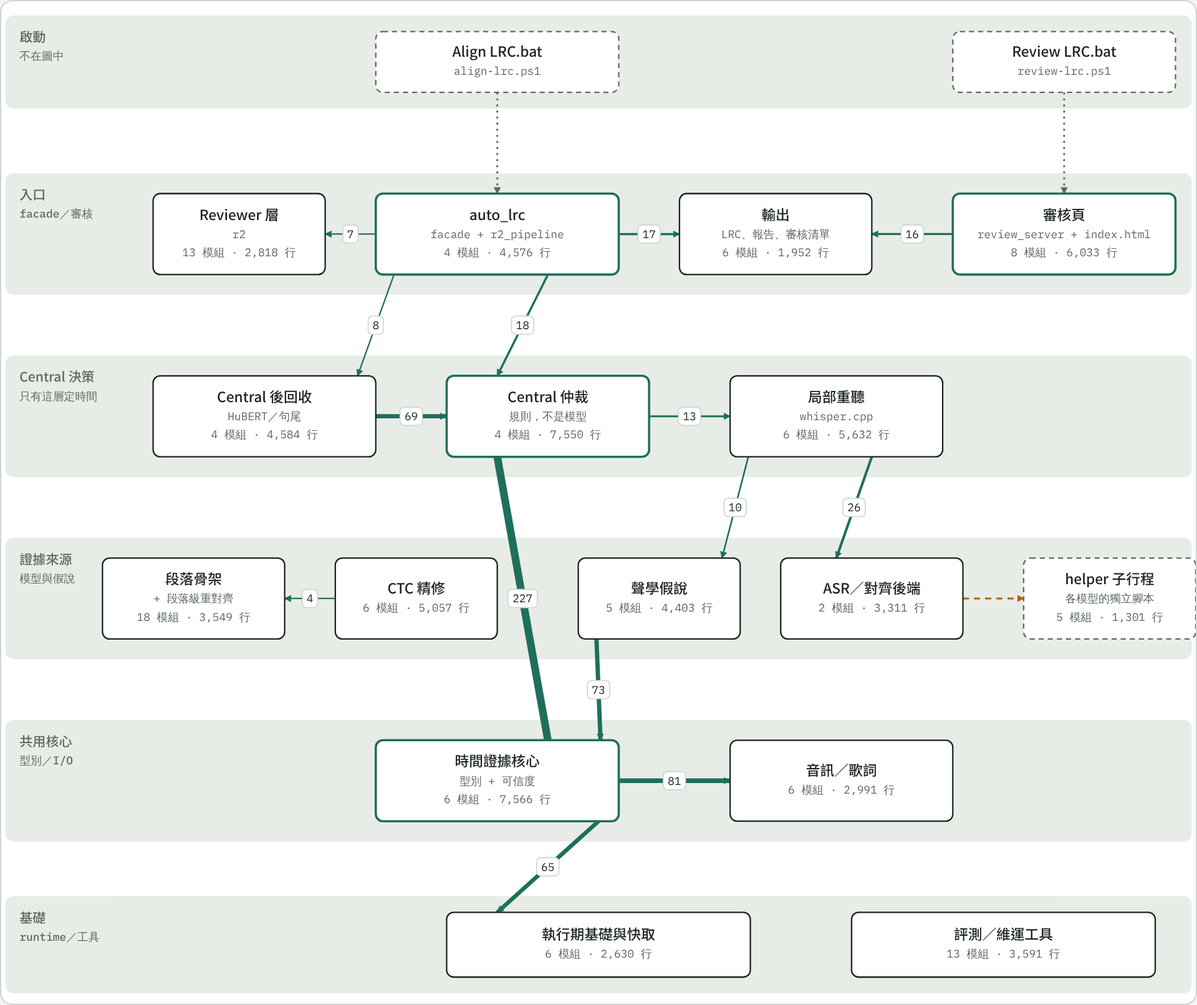
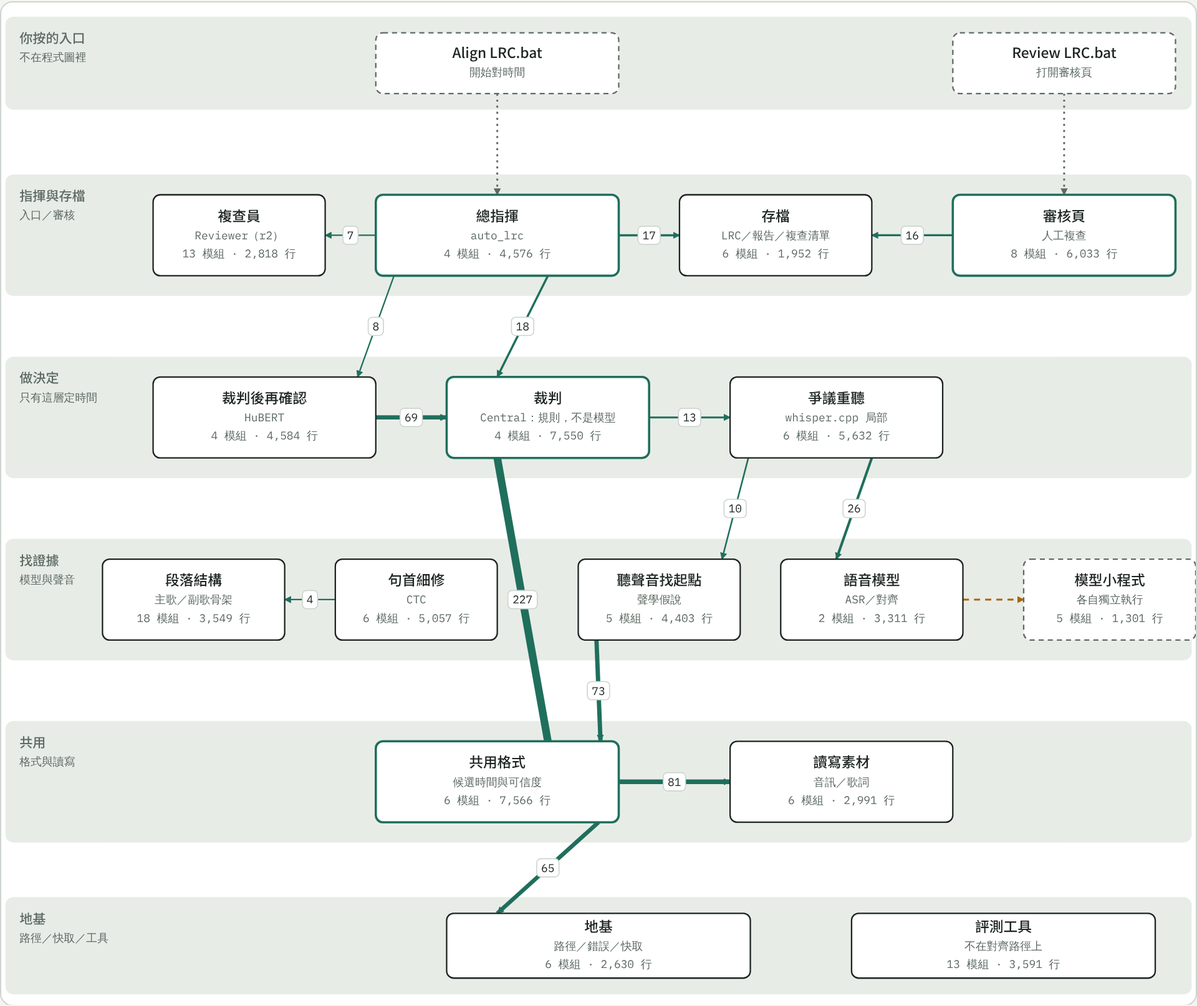
docs: architecture map in plain language for first-time readers

diff --git a/docs/architecture/index.html b/docs/architecture/index.html
@@ -90,22 +90,43 @@ ul.blind { margin: 0; padding-left: 20px; display: grid; gap: 6px; max-width: 80
 .tag.miss { border-color: var(--http); color: var(--http); }
 .paper { background: var(--paper); border: 1px solid var(--line); border-radius: 8px; overflow: auto; max-height: 80vh; margin-top: 12px; }
 .note { color: var(--muted); margin: 8px 0 0; max-width: 75ch; }
+.how { display: grid; gap: 4px; }
+.how h2 { margin: 0 0 6px; }
+ol.how4 { margin: 0; padding-left: 24px; display: grid; gap: 6px; max-width: 75ch; }
+aside .plain { font-size: 16px; line-height: 1.7; }
+aside details.tech { border-top: 1px solid var(--line); padding-top: 8px; }
+aside details.tech summary { color: var(--muted); font-size: 13px; }
+aside details.tech dl { margin-top: 8px; }
+.dev summary h2 { font-size: 18px; color: var(--muted); }
+.devbody { display: grid; gap: 24px; margin-top: 14px; }
+.devsec h3 { font-size: 16px; margin: 0 0 10px; }
 @media (prefers-reduced-motion: reduce) { * { transition: none !important; } }
 </style>
 
 <div class="wrap">
   <header>
     <h1>LRC 1.9 架構圖</h1>
-    <p>從 graphify 程式碼圖整理出的模組層級架構。點任一方塊看它的職責、檔案、核心函式與上下游；按「一首歌的主路徑」看一首歌怎麼從 FLAC 走到 LRC。</p>
-    <div class="meta">graphify 0.9.102 · 正式版 main = dev = 98f23693（2026-11-17）· 6076 節點 / 18095 邊 · 正式模組 112 個、67,544 行 · 線上數字＝跨層 calls+imports+references 邊數</div>
+    <p>你給它一首歌的音檔和歌詞（只有文字，沒有時間），它算出每一句從第幾秒開始唱，存成 LRC 檔。音樂播放器讀到 LRC，就能跟著歌聲一句一句亮起歌詞。</p>
   </header>
+
+  <section class="how">
+    <h2>它怎麼做到的</h2>
+    <ol class="how4">
+      <li><b>先把伴奏拿掉。</b>只留下歌聲，模型比較好聽清楚。</li>
+      <li><b>讓幾個語音模型各自找每一句的開頭。</b>它們已經知道歌詞，只要找「這幾個字在哪裡」。</li>
+      <li><b>由裁判挑時間。</b>模型意見一致就採用；不一致時，剪那一小段重聽，或找更多模型投票。</li>
+      <li><b>沒把握就說出來。</b>仍然不確定的句子會被標出來，人只要在審核頁聽這幾句，不用整首重聽。</li>
+    </ol>
+    <p class="note">在 37 首人工逐句校對過的歌上，87% 的句子誤差在 0.2 秒內，大約是一個音節的長度。</p>
+    <p class="note">下面這張圖是程式怎麼分工的。點任一方塊，先看到它用白話在做什麼；按「一首歌的主路徑」看一首歌依序經過哪些方塊。</p>
+  </section>
 
   <div class="controls">
     <button id="btnPath" type="button" aria-pressed="false">一首歌的主路徑</button>
     <button id="btnReset" type="button">全部顯示</button>
     <div class="legend">
-      <span><i class="sw"></i>程式內引用（粗細＝邊數）</span>
-      <span><i class="sw http"></i>子行程（圖中無邊，依原始碼）</span>
+      <span><i class="sw"></i>互相呼叫（越粗越多）</span>
+      <span><i class="sw http"></i>另開程式執行</span>
       <span><i class="sw path"></i>主路徑</span>
     </div>
   </div>
@@ -115,22 +136,38 @@ ul.blind { margin: 0; padding-left: 20px; display: grid; gap: 6px; max-width: 80
     <aside id="panel" aria-live="polite"></aside>
   </div>
 
-  <section>
-    <h2>近期功能落點</h2>
+  <section class="dev">
+    <details>
+      <summary><h2>給開發者：近期改動、核心函式、完整模組圖</h2></summary>
+      <div class="devbody">
+  <div class="devsec">
+    <h3>這張圖看不到的東西</h3>
+    <ul class="blind">
+      <li>分層是依模組名稱與拆檔報告分的，不是 graphify 的自動分群（它分出 230 個函式層級的群）。邊數全部來自 graphify。</li>
+      <li>主圖只畫主幹（17 條線）。幾乎每一層都用到「共用格式」「讀寫素材」「地基」，沒有全部畫線；完整的上下游數字在點開方塊後的右側面板。</li>
+      <li>bat／ps1 啟動路徑不在 graphify 圖中，點線是依原始碼補畫的。</li>
+      <li>helper 子行程是用檔案路徑啟動的，不是 import，圖裡沒有邊；虛線是依原始碼補畫的。</li>
+      <li>審核頁前端 <code>review_page/index.html</code>（2,240 行）不是 Python，沒有進模組統計。執行時審核頁和對齊管線之間只靠報告與 LRC 檔案相連，程式上只共用歌詞讀寫等底層模組。</li>
+      <li>執行期才綁定的 callback（例如 report_trust → central_commit）在 import 層級看不到。</li>
+      <li>lyricsee 已不在公開 repo，圖上沒有。</li>
+    </ul>
+  </div>
+      <div class="meta">graphify 0.9.102 · 正式版 main = dev = 98f23693（2026-11-17）· 6076 節點 / 18095 邊 · 正式模組 112 個、67,544 行 · 線上數字＝跨層 calls+imports+references 邊數</div>
+  <div class="devsec">
+    <h3>近期改動落點</h3>
     <div class="grid2" id="feats"></div>
-  </section>
+  </div>
 
-  <section>
-    <h2>改動影響最大的節點（god nodes，不含測試）</h2>
+  <div class="devsec">
+    <h3>改動影響最大的函式（god nodes，不含測試）</h3>
     <div class="tablewrap"><table>
       <thead><tr><th>#</th><th>節點</th><th>檔案</th><th style="text-align:right">度數</th><th style="width:18%"></th><th>改了會影響</th></tr></thead>
       <tbody id="gods"></tbody>
     </table></div>
-  </section>
+  </div>
 
-  <section>
-    <details>
-      <summary><h2>完整模組圖（99 個模組，建議桌機看）</h2></summary>
+      <div class="devsec">
+      <h3>完整模組圖（99 個模組，建議桌機看）</h3>
       <p class="note">每個方框是一個 .py，下方是行數。398 條相依做過遞移簡化後剩 108 條。可左右捲動。</p>
       <div class="paper"><svg style="display:block;width:100%;min-width:1500px;height:auto"
  viewBox="0.00 0.00 2792.08 1146.00" xmlns="http://www.w3.org/2000/svg" xmlns:xlink="http://www.w3.org/1999/xlink">
@@ -1550,29 +1587,19 @@ ul.blind { margin: 0; padding-left: 20px; display: grid; gap: 6px; max-width: 80
 </g>
 </svg>
 </div>
+    </div>
+      </div>
     </details>
   </section>
 
-  <section>
-    <h2>這張圖看不到的東西</h2>
-    <ul class="blind">
-      <li>分層是依模組名稱與拆檔報告分的，不是 graphify 的自動分群（它分出 230 個函式層級的群）。邊數全部來自 graphify。</li>
-      <li>主圖只畫主幹（17 條線）。幾乎每一層都用到「時間證據核心」「音訊／歌詞」「執行期基礎」，沒有全部畫線；完整的上下游數字在點開方塊後的右側面板。</li>
-      <li>bat／ps1 啟動路徑不在 graphify 圖中，點線是依原始碼補畫的。</li>
-      <li>helper 子行程是用檔案路徑啟動的，不是 import，圖裡沒有邊；虛線是依原始碼補畫的。</li>
-      <li>審核頁前端 <code>review_page/index.html</code>（2,240 行）不是 Python，沒有進模組統計。執行時審核頁和對齊管線之間只靠報告與 LRC 檔案相連，程式上只共用歌詞讀寫等底層模組。</li>
-      <li>執行期才綁定的 callback（例如 report_trust → central_commit）在 import 層級看不到。</li>
-      <li>lyricsee 已不在公開 repo，圖上沒有。</li>
-    </ul>
-  </section>
 </div>
 
 <script>
 const OX = 140;
-const M = {"bat": {"x": 230, "y": 30, "w": 240, "h": 60, "name": "Align LRC.bat", "sub": "align-lrc.ps1", "layer": "啟動（不在圖中）", "ghost": true, "cnt": "", "role": "把 FLAC 或資料夾拖上來就開始對齊。ps1 逐首呼叫 auto_lrc.py（或 r2_pipeline.py），最後跑 lrc_batch_summary.py 出批次摘要。檔名裡的 %…% 被 cmd.exe 展開時，由共用的 launcher-names.ps1 還原。", "files": ["Align LRC.bat", "align-lrc.ps1", "launcher-names.ps1"], "fns": [], "io": "→ auto_lrc.py、r2_pipeline.py、lrc_batch_summary.py（依 ps1 原始碼）"}, "rbat": {"x": 800, "y": 30, "w": 220, "h": 60, "name": "Review LRC.bat", "sub": "review-lrc.ps1", "layer": "啟動（不在圖中）", "ghost": true, "cnt": "", "role": "啟動審核頁伺服器。不帶參數時審 outputs\\reports 裡每一首；拖資料夾或 FLAC 上來時交給 review-lrc.ps1，用 launcher-names.ps1 還原檔名後只審那些。", "files": ["Review LRC.bat", "review-lrc.ps1", "launcher-names.ps1"], "fns": [], "io": "→ review_server.py"}, "rev": {"x": 10, "y": 190, "w": 170, "h": 80, "name": "Reviewer 層", "sub": "r2", "layer": "入口", "cnt": "13 模組 · 2,818 行", "role": "r2 流程用的獨立 reviewer（HuBERT、WhisperX、XLSR 等）。各自再對一次，用來判斷每一句要不要送人審，不改時間。", "files": ["run_reviewer_analysis.py（748）", "reviewers/run_hub.py（331）", "reviewers/run_whisperx.py（292）", "reviewers/run_hfa.py（249）", "reviewers/run_xlsr.py（229）", "reviewers/run_hubp.py（219）", "reviewer_layer.py（194）", "reviewers/build_hfa_plan.py（187）", "…另 5 個"], "fns": ["classify_row()", "select_songs()", "calibrate_reviewer_vocal_offset()"], "io": "用到：評測／維運工具 7、auto_lrc（facade） 1、ASR／對齊後端 1、音訊／歌詞 1；被用到：auto_lrc（facade） 7"}, "entry": {"x": 230, "y": 190, "w": 240, "h": 80, "name": "auto_lrc", "sub": "facade + r2_pipeline", "layer": "入口", "cnt": "4 模組 · 4,576 行", "core": true, "role": "對外入口。process_audio() 依序呼叫每個階段；拆檔後 auto_lrc.py 只剩 facade，演算法都在下面各層。r2_pipeline 在它外面再包一層 reviewer 流程。", "files": ["auto_lrc.py（2,581）", "r2_pipeline.py（1,393）", "lrc_scoring.py（380）", "apply_start_lead.py（222）"], "fns": ["process_audio()", "run_auto_backend_competition()", "build_parser()", "main()"], "io": "用到：執行期基礎 46、音訊／歌詞 29、時間證據核心 24、ASR／對齊後端 18、Central 仲裁 18、輸出 17；被用到：Reviewer 層 1、評測／維運工具 1"}, "out": {"x": 530, "y": 190, "w": 190, "h": 80, "name": "輸出", "sub": "LRC、報告、審核清單", "layer": "入口", "cnt": "6 模組 · 1,952 行", "role": "把 .lrc 和報告成對寫出（中斷可復原）、產生審核 TSV、記錄人工修改、匯出稽核表、批次摘要、寫回 FLAC 標籤。", "files": ["lrc_batch_summary.py（516）", "lyrics_tag_export.py（433）", "export_alignment_audit.py（378）", "lrc_review_tsv.py（347）", "lrc_publication.py（181）", "lrc_manual_edits.py（97）"], "fns": ["publish_pair()", "recover_pair()", "review_artifact_paths()", "manual_edit_reason()"], "io": "用到：評測／維運工具 5、執行期基礎 3；被用到：auto_lrc（facade） 17、審核頁 16、音訊／歌詞 5、評測／維運工具 1"}, "review": {"x": 800, "y": 190, "w": 220, "h": 80, "name": "審核頁", "sub": "review_server + index.html", "layer": "入口", "cnt": "8 模組 · 6,033 行", "core": true, "role": "本機 HTTP 伺服器加單頁前端。讀報告和 LRC，讓你逐句聽、改時間、刪行，存回 LRC。讀 LRC 時用共用的 text_encoding.py 判斷 UTF-8／UTF-16／GBK／Big5 與毫秒標籤（EMPTY1），判斷不出編碼的檔案拒絕寫入，避免存成亂碼；偵測簡體行並一鍵轉台灣繁體（TRAD1），顯示括號句的和聲候選。執行時和對齊管線只透過報告與 LRC 檔案相連，程式上只共用歌詞讀寫（text_encoding）等底層模組。", "files": ["review_server.py（3,543）", "review_hot_update.py（744）", "zh_traditional.py（646）", "review_presentation.py（501）", "harmony_candidates.py（342）", "paren_flag_marks.py（115）", "backfill_romaji.py（83）", "review_decisions_summary.py（59）", "review_page/index.html（2,240）"], "fns": ["ReviewStore", "ReviewHandler", "song_candidates()", "JobRunner"], "io": "用到：輸出 16、音訊／歌詞 14、執行期基礎 7、段落骨架 1；被用到：局部重聽 1、auto_lrc（facade） 1"}, "post": {"x": 10, "y": 370, "w": 220, "h": 80, "name": "Central 後回收", "sub": "HuBERT／句尾", "layer": "Central 決策", "cnt": "4 模組 · 4,584 行", "role": "Central 寫定前後的補救：用 HuBERT 日文 ASR 確認句尾和既有候選的開頭。只能在既有候選裡選或標成需審，不產生新時間。", "files": ["postcentral_tail_acquisition.py（1,672）", "known_lyric_hubert_planning.py（1,124）", "postcentral_recovery.py（949）", "hubert_existing_candidate_recovery.py（839）"], "fns": ["_postcentral_tail_enriched_bundle()", "_mark_material_recovery_moves_for_review()", "_hubert_recovery_isolation_units()"], "io": "用到：時間證據核心 88、Central 仲裁 69、執行期基礎 37、音訊／歌詞 35、局部重聽 11、聲學假說 4；被用到：auto_lrc（facade） 8"}, "central": {"x": 300, "y": 370, "w": 200, "h": 80, "name": "Central 仲裁", "sub": "規則，不是模型", "layer": "Central 決策", "cnt": "4 模組 · 7,550 行", "core": true, "role": "唯一決定時間的地方。比較各後端的候選，依規則選定每一句的時間並寫定；另含中立仲裁與自我檢查 F1–F4。", "files": ["backend_bundle.py（2,982）", "central_commit.py（2,769）", "neutral_arbitration.py（1,396）", "central_commit_tail.py（403）"], "fns": ["evaluate_backend_timing()", "select_evaluated_backend()", "compute_final_timing_self_check()", "central_candidate_selection_payload()"], "io": "用到：時間證據核心 227、執行期基礎 80、音訊／歌詞 33、聲學假說 14、局部重聽 13、ASR／對齊後端 7；被用到：Central 後回收 69、auto_lrc（facade） 18、時間證據核心 2"}, "lw": {"x": 580, "y": 370, "w": 210, "h": 80, "name": "局部重聽", "sub": "whisper.cpp", "layer": "Central 決策", "cnt": "6 模組 · 5,632 行", "role": "對有衝突的句子切小窗，用 whisper.cpp 重聽，證明候選「是這一句」。也負責把執行期證據綁到候選上、收集 Central 的候選。", "files": ["local_whisper_retry.py（2,167）", "runtime_evidence_binding.py（1,203）", "crossline_retry_execution.py（936）", "local_whisper_requests.py（773）", "crossline_retry_planning.py（486）", "local_whisper_incremental_budget.py（67）"], "fns": ["collect_central_timing_candidates()", "execute_local_whisper_request()", "plan_joint_boundary_retry_requests()", "bind_runtime_whisperx_row_evidence()"], "io": "用到：時間證據核心 189、執行期基礎 71、音訊／歌詞 69、ASR／對齊後端 26、聲學假說 10、CTC 精修 5；被用到：Central 仲裁 13、Central 後回收 11、auto_lrc（facade） 9"}, "seg": {"x": -40, "y": 550, "w": 180, "h": 80, "name": "段落骨架", "sub": "+ 段落級重對齊", "layer": "證據來源", "cnt": "18 模組 · 3,549 行", "role": "判斷歌曲的段落骨架是否成立；成立就跳過局部視窗重對齊。段落級重對齊（--segment-realign）預設關閉。", "files": ["segment_realign.py（687）", "segment_skeleton_production.py（611）", "segment_structure.py（315）", "segment_skeleton.py（252）", "segment_production.py（224）", "segment_anchor_inference.py（219）", "segment_skeleton_dual.py（168）", "…另 11 個"], "fns": ["run_segment_skeleton()", "plan_segment_realign()", "scan_vocal_recurrences()", "merge_vocal_passages()"], "io": "用到：執行期基礎 6、CTC 精修 2；被用到：CTC 精修 4、ASR／對齊後端 1、Central 仲裁 1、局部重聽 1、審核頁 1"}, "ctc": {"x": 190, "y": 550, "w": 160, "h": 80, "name": "CTC 精修", "layer": "證據來源", "cnt": "6 模組 · 5,057 行", "role": "在全曲 CTC 對齊之上做邊界證據、局部視窗重對齊、句首回收，以及和 WhisperX 的交叉精修。", "files": ["ctc_boundary_evidence.py（1,240）", "ctc_window_realign.py（1,092）", "ctc_prefix_recovery.py（1,077）", "ctc_whisperx_refinement.py（961）", "ctc_refinement.py（682）", "ctc_confidence.py（5）"], "fns": ["first_local_onset()", "annotate_ctc_boundary_evidence()", "ctc_prefix_boundary_evidence()"], "io": "用到：音訊／歌詞 64、執行期基礎 39、時間證據核心 35、段落骨架 4；被用到：auto_lrc（facade） 13、聲學假說 8、ASR／對齊後端 5、局部重聽 5、段落骨架 2"}, "hyp": {"x": 430, "y": 550, "w": 160, "h": 80, "name": "聲學假說", "layer": "證據來源", "cnt": "5 模組 · 4,403 行", "role": "從人聲軌的音量起點、重複段落提出候選時間，並記錄每個候選的來歷。", "files": ["acoustic_hypotheses.py（1,977）", "hypothesis_provenance.py（961）", "recurrence_hypotheses.py（903）", "vocal_onset_hypotheses.py（482）", "duplicate_audio_consensus.py（80）"], "fns": ["_self_bound_hypothesis_record()", "_strong_vocal_onset_near()", "assert_report_timestamp_equality()"], "io": "用到：音訊／歌詞 97、時間證據核心 73、執行期基礎 47、CTC 精修 8；被用到：Central 仲裁 14、局部重聽 10、ASR／對齊後端 8、Central 後回收 4、auto_lrc（facade） 3"}, "asr": {"x": 630, "y": 550, "w": 180, "h": 80, "name": "ASR／對齊後端", "layer": "證據來源", "cnt": "2 模組 · 3,311 行", "role": "呼叫各模型：whisper.cpp 原始辨識、MMS_FA 全曲 CTC、WhisperX 強制對齊、7 組 CTC 的多模型共識。", "files": ["asr_backends.py（2,797）", "multimodel_consensus.py（514）"], "fns": ["run_whisperx_alignment()", "asr_transcript()", "build_local_whisper_capability()", "hf_model_load_options()"], "io": "用到：執行期基礎 121、音訊／歌詞 62、時間證據核心 17、聲學假說 8、CTC 精修 5、段落骨架 1；被用到：局部重聽 26、auto_lrc（facade） 18、Central 仲裁 7、評測／維運工具 3、Central 後回收 3、時間證據核心 3；子行程 → helper"}, "helper": {"x": 870, "y": 550, "w": 170, "h": 80, "name": "helper 子行程", "sub": "各模型的獨立腳本", "layer": "證據來源", "cnt": "5 模組 · 1,301 行", "ghost": true, "role": "真正載入模型的腳本，在另一個 Python 行程裡跑（GPU 環境隔離）。後端用檔案路徑啟動它們，不是 import。", "files": ["ctc_align.py（382）", "multimodel_align.py（350）", "persistent_helper_worker.py（264）", "japanese_ctc_align.py（153）", "whisperx_refine.py（152）"], "fns": [], "io": "被 asr_backends、ctc_refinement、ctc_window_realign、ctc_prefix_recovery、central_commit 以子行程啟動（graphify 圖中沒有這些邊）"}, "timing": {"x": 230, "y": 730, "w": 240, "h": 80, "name": "時間證據核心", "sub": "型別 + 可信度", "layer": "共用核心", "cnt": "6 模組 · 7,566 行", "core": true, "role": "所有層共用的資料型別（候選、決策、最終狀態）、句尾與候選區間證據，以及報告的可信度計算。", "files": ["report_trust.py（2,312）", "timing_core.py（1,847）", "tail_occurrence_evidence.py（1,418）", "candidate_regions.py（1,051）", "timing_evidence_types.py（807）", "arbiter.py（131）"], "fns": ["TimingCandidate", "FinalTimingState", "BackendSelection", "update_report_confidence_metrics()"], "io": "用到：音訊／歌詞 81、執行期基礎 65、ASR／對齊後端 3、Central 仲裁 2；被用到：Central 仲裁 227、局部重聽 189、Central 後回收 88、聲學假說 73、CTC 精修 35、auto_lrc（facade） 24"}, "io": {"x": 580, "y": 730, "w": 220, "h": 80, "name": "音訊／歌詞", "layer": "共用核心", "cnt": "6 模組 · 2,991 行", "role": "解碼音訊、算特徵、Demucs 分人聲軌；讀歌詞（text_encoding.py 判斷檔案編碼，對齊輸入和審核頁共用）、轉羅馬拼音、寫 LRC。", "files": ["lyrics_io.py（1,341）", "audio_features.py（814）", "lrc_reading.py（591）", "text_encoding.py（157）", "numeral_reading.py（50）", "lrc_timestamp_pairs.py（38）"], "fns": ["read_lyric_text()", "LyricEntry", "entry_sung_text()", "normalize_match_text()", "analyze_audio()", "write_lrc()"], "io": "用到：執行期基礎 39、輸出 5；被用到：聲學假說 97、時間證據核心 81、局部重聽 69、CTC 精修 64、ASR／對齊後端 62、Central 後回收 35"}, "base": {"x": 300, "y": 900, "w": 300, "h": 64, "name": "執行期基礎與快取", "layer": "基礎", "cnt": "6 模組 · 2,630 行", "role": "路徑、錯誤型別、內容雜湊、模型快取、GPU 鎖、階段計時。每一層都用到它。", "files": ["runtime_base.py（1,281）", "lrc_stage_timings.py（479）", "model_cache.py（447）", "runtime_paths.py（237）", "split_patch.py（104）", "file_digest.py（82）"], "fns": ["LrcError", "_timing_content_digest()", "canonicalize_lrc_time()", "_path_sha256()"], "io": "被用到：ASR／對齊後端 121、Central 仲裁 80、局部重聽 71、時間證據核心 65、聲學假說 47、auto_lrc（facade） 46"}, "tools": {"x": 700, "y": 900, "w": 300, "h": 64, "name": "評測／維運工具", "layer": "基礎", "cnt": "13 模組 · 3,591 行", "role": "離線用：對 BK 評分、報告比對、benchmark、doctor 環境檢查、模型預抓、快取遷移。不在對齊路徑上。", "files": ["run_benchmarks.py（573）", "quantify_alignment.py（458）", "furigana_audit.py（457）", "compare_report_runs.py（404）", "doctor.py（387）", "evaluate_lrc.py（275）", "migrate_model_cache.py（212）", "archive_stale_reports.py（180）", "…另 5 個"], "fns": ["parse_lrc()", "summarize()"], "io": "用到：音訊／歌詞 15、執行期基礎 11、ASR／對齊後端 3、輸出 1、auto_lrc（facade） 1；被用到：Reviewer 層 7、輸出 5"}};
-const BANDS = [{"y": 14, "h": 92, "t": "啟動", "s": "不在圖中"}, {"y": 170, "h": 120, "t": "入口", "s": "facade／審核"}, {"y": 350, "h": 120, "t": "Central 決策", "s": "只有這層定時間"}, {"y": 530, "h": 120, "t": "證據來源", "s": "模型與假說"}, {"y": 710, "h": 120, "t": "共用核心", "s": "型別／I/O"}, {"y": 884, "h": 96, "t": "基礎", "s": "runtime／工具"}];
+const M = {"bat": {"x": 230, "y": 30, "w": 240, "h": 60, "name": "Align LRC.bat", "sub": "開始對時間", "layer": "你按的入口", "ghost": true, "cnt": "", "plain": "你按的入口。把歌（FLAC 音檔，旁邊放同名的歌詞文字檔）拖到這個檔案上，工具就一首一首幫它們對時間。", "role": "把 FLAC 或資料夾拖上來就開始對齊。ps1 逐首呼叫 auto_lrc.py（或 r2_pipeline.py），最後跑 lrc_batch_summary.py 出批次摘要。檔名裡的 %…% 被 cmd.exe 展開時，由共用的 launcher-names.ps1 還原。", "files": ["Align LRC.bat", "align-lrc.ps1", "launcher-names.ps1"], "fns": [], "io": "→ auto_lrc.py、r2_pipeline.py、lrc_batch_summary.py（依 ps1 原始碼）"}, "rbat": {"x": 800, "y": 30, "w": 220, "h": 60, "name": "Review LRC.bat", "sub": "打開審核頁", "layer": "你按的入口", "ghost": true, "cnt": "", "plain": "對完之後的入口。打開審核頁，讓你聽歌、檢查工具標出來的句子。", "role": "啟動審核頁伺服器。不帶參數時審 outputs\\reports 裡每一首；拖資料夾或 FLAC 上來時交給 review-lrc.ps1，用 launcher-names.ps1 還原檔名後只審那些。", "files": ["Review LRC.bat", "review-lrc.ps1", "launcher-names.ps1"], "fns": [], "io": "→ review_server.py"}, "rev": {"x": 10, "y": 190, "w": 170, "h": 80, "name": "複查員", "sub": "Reviewer（r2）", "layer": "指揮與存檔", "cnt": "13 模組 · 2,818 行", "plain": "額外的複查員：幾個不同的語音模型各自再對一次，只用來判斷哪幾句該請人聽，不會改時間。", "role": "r2 流程用的獨立 reviewer（HuBERT、WhisperX、XLSR 等）。各自再對一次，用來判斷每一句要不要送人審，不改時間。", "files": ["run_reviewer_analysis.py（748）", "reviewers/run_hub.py（331）", "reviewers/run_whisperx.py（292）", "reviewers/run_hfa.py（249）", "reviewers/run_xlsr.py（229）", "reviewers/run_hubp.py（219）", "reviewer_layer.py（194）", "reviewers/build_hfa_plan.py（187）", "…另 5 個"], "fns": ["classify_row()", "select_songs()", "calibrate_reviewer_vocal_offset()"], "io": "用到：評測工具 7、總指揮 1、語音模型 1、讀寫素材 1；被用到：總指揮 7"}, "entry": {"x": 230, "y": 190, "w": 240, "h": 80, "name": "總指揮", "sub": "auto_lrc", "layer": "指揮與存檔", "cnt": "4 模組 · 4,576 行", "core": true, "plain": "照固定順序叫下面每一步做事，自己不做判斷。", "role": "對外入口。process_audio() 依序呼叫每個階段；拆檔後 auto_lrc.py 只剩 facade，演算法都在下面各層。r2_pipeline 在它外面再包一層 reviewer 流程。", "files": ["auto_lrc.py（2,581）", "r2_pipeline.py（1,393）", "lrc_scoring.py（380）", "apply_start_lead.py（222）"], "fns": ["process_audio()", "run_auto_backend_competition()", "build_parser()", "main()"], "io": "用到：地基 46、讀寫素材 29、共用格式 24、語音模型 18、裁判 18、存檔 17；被用到：複查員 1、評測工具 1"}, "out": {"x": 530, "y": 190, "w": 190, "h": 80, "name": "存檔", "sub": "LRC／報告／複查清單", "layer": "指揮與存檔", "cnt": "6 模組 · 1,952 行", "plain": "把結果存成檔案：給播放器用的 .lrc 歌詞、一份記錄每句時間怎麼決定的報告，以及一份「請人聽這幾句」的清單。", "role": "把 .lrc 和報告成對寫出（中斷可復原）、產生審核 TSV、記錄人工修改、匯出稽核表、批次摘要、寫回 FLAC 標籤。", "files": ["lrc_batch_summary.py（516）", "lyrics_tag_export.py（433）", "export_alignment_audit.py（378）", "lrc_review_tsv.py（347）", "lrc_publication.py（181）", "lrc_manual_edits.py（97）"], "fns": ["publish_pair()", "recover_pair()", "review_artifact_paths()", "manual_edit_reason()"], "io": "用到：評測工具 5、地基 3；被用到：總指揮 17、審核頁 16、讀寫素材 5、評測工具 1"}, "review": {"x": 800, "y": 190, "w": 220, "h": 80, "name": "審核頁", "sub": "人工複查", "layer": "指揮與存檔", "cnt": "8 模組 · 6,033 行", "core": true, "plain": "給人用的網頁。工具沒把握的句子會被標出來，你可以邊聽邊調時間、刪掉多餘的行，再存回 .lrc。", "role": "本機 HTTP 伺服器加單頁前端。讀報告和 LRC，讓你逐句聽、改時間、刪行，存回 LRC。讀 LRC 時用共用的 text_encoding.py 判斷 UTF-8／UTF-16／GBK／Big5 與毫秒標籤（EMPTY1），判斷不出編碼的檔案拒絕寫入，避免存成亂碼；偵測簡體行並一鍵轉台灣繁體（TRAD1），顯示括號句的和聲候選。執行時和對齊管線只透過報告與 LRC 檔案相連，程式上只共用歌詞讀寫（text_encoding）等底層模組。", "files": ["review_server.py（3,543）", "review_hot_update.py（744）", "zh_traditional.py（646）", "review_presentation.py（501）", "harmony_candidates.py（342）", "paren_flag_marks.py（115）", "backfill_romaji.py（83）", "review_decisions_summary.py（59）", "review_page/index.html（2,240）"], "fns": ["ReviewStore", "ReviewHandler", "song_candidates()", "JobRunner"], "io": "用到：存檔 16、讀寫素材 14、地基 7、段落結構 1；被用到：爭議重聽 1、總指揮 1"}, "post": {"x": 10, "y": 370, "w": 220, "h": 80, "name": "裁判後再確認", "sub": "HuBERT", "layer": "做決定", "cnt": "4 模組 · 4,584 行", "plain": "時間定下來之後再確認一次：用另一個日文語音模型聽句尾、核對開頭。只能在已有的答案裡挑，不會自己發明新時間。", "role": "Central 寫定前後的補救：用 HuBERT 日文 ASR 確認句尾和既有候選的開頭。只能在既有候選裡選或標成需審，不產生新時間。", "files": ["postcentral_tail_acquisition.py（1,672）", "known_lyric_hubert_planning.py（1,124）", "postcentral_recovery.py（949）", "hubert_existing_candidate_recovery.py（839）"], "fns": ["_postcentral_tail_enriched_bundle()", "_mark_material_recovery_moves_for_review()", "_hubert_recovery_isolation_units()"], "io": "用到：共用格式 88、裁判 69、地基 37、讀寫素材 35、爭議重聽 11、聽聲音找起點 4；被用到：總指揮 8"}, "central": {"x": 300, "y": 370, "w": 200, "h": 80, "name": "裁判", "sub": "Central：規則，不是模型", "layer": "做決定", "cnt": "4 模組 · 7,550 行", "core": true, "plain": "每個模型都會各自猜「這一句從第幾秒開始」，裁判依固定規則挑一個；沒把握的就標成請人複查。整個程式只有這裡決定時間。", "role": "唯一決定時間的地方。比較各後端的候選，依規則選定每一句的時間並寫定；另含中立仲裁與自我檢查 F1–F4。", "files": ["backend_bundle.py（2,982）", "central_commit.py（2,769）", "neutral_arbitration.py（1,396）", "central_commit_tail.py（403）"], "fns": ["evaluate_backend_timing()", "select_evaluated_backend()", "compute_final_timing_self_check()", "central_candidate_selection_payload()"], "io": "用到：共用格式 227、地基 80、讀寫素材 33、聽聲音找起點 14、爭議重聽 13、語音模型 7；被用到：裁判後再確認 69、總指揮 18、共用格式 2"}, "lw": {"x": 580, "y": 370, "w": 210, "h": 80, "name": "爭議重聽", "sub": "whisper.cpp 局部", "layer": "做決定", "cnt": "6 模組 · 5,632 行", "plain": "模型意見差很多時，只剪那一小段，再用語音辨識聽一次，確認那裡唱的真的是這一句，不是前後句。", "role": "對有衝突的句子切小窗，用 whisper.cpp 重聽，證明候選「是這一句」。也負責把執行期證據綁到候選上、收集 Central 的候選。", "files": ["local_whisper_retry.py（2,167）", "runtime_evidence_binding.py（1,203）", "crossline_retry_execution.py（936）", "local_whisper_requests.py（773）", "crossline_retry_planning.py（486）", "local_whisper_incremental_budget.py（67）"], "fns": ["collect_central_timing_candidates()", "execute_local_whisper_request()", "plan_joint_boundary_retry_requests()", "bind_runtime_whisperx_row_evidence()"], "io": "用到：共用格式 189、地基 71、讀寫素材 69、語音模型 26、聽聲音找起點 10、句首細修 5；被用到：裁判 13、裁判後再確認 11、總指揮 9"}, "seg": {"x": -40, "y": 550, "w": 180, "h": 80, "name": "段落結構", "sub": "主歌／副歌骨架", "layer": "找證據", "cnt": "18 模組 · 3,549 行", "plain": "先看整首歌的段落結構（主歌、副歌重複幾次）。結構清楚時，就不用做後面比較慢的逐段細修。", "role": "判斷歌曲的段落骨架是否成立；成立就跳過局部視窗重對齊。段落級重對齊（--segment-realign）預設關閉。", "files": ["segment_realign.py（687）", "segment_skeleton_production.py（611）", "segment_structure.py（315）", "segment_skeleton.py（252）", "segment_production.py（224）", "segment_anchor_inference.py（219）", "segment_skeleton_dual.py（168）", "…另 11 個"], "fns": ["run_segment_skeleton()", "plan_segment_realign()", "scan_vocal_recurrences()", "merge_vocal_passages()"], "io": "用到：地基 6、句首細修 2；被用到：句首細修 4、語音模型 1、裁判 1、爭議重聽 1、審核頁 1"}, "ctc": {"x": 190, "y": 550, "w": 160, "h": 80, "name": "句首細修", "sub": "CTC", "layer": "找證據", "cnt": "6 模組 · 5,057 行", "plain": "細修每一句的開頭：在第一輪對齊的結果附近找更準的起點，把被擠歪的句子拉回原位。", "role": "在全曲 CTC 對齊之上做邊界證據、局部視窗重對齊、句首回收，以及和 WhisperX 的交叉精修。", "files": ["ctc_boundary_evidence.py（1,240）", "ctc_window_realign.py（1,092）", "ctc_prefix_recovery.py（1,077）", "ctc_whisperx_refinement.py（961）", "ctc_refinement.py（682）", "ctc_confidence.py（5）"], "fns": ["first_local_onset()", "annotate_ctc_boundary_evidence()", "ctc_prefix_boundary_evidence()"], "io": "用到：讀寫素材 64、地基 39、共用格式 35、段落結構 4；被用到：總指揮 13、聽聲音找起點 8、語音模型 5、爭議重聽 5、段落結構 2"}, "hyp": {"x": 430, "y": 550, "w": 160, "h": 80, "name": "聽聲音找起點", "sub": "聲學假說", "layer": "找證據", "cnt": "5 模組 · 4,403 行", "plain": "不看歌詞、只聽聲音：人聲突然變大的地方、和前面重複的旋律，都可能是一句的開頭，拿來當額外的候選時間。", "role": "從人聲軌的音量起點、重複段落提出候選時間，並記錄每個候選的來歷。", "files": ["acoustic_hypotheses.py（1,977）", "hypothesis_provenance.py（961）", "recurrence_hypotheses.py（903）", "vocal_onset_hypotheses.py（482）", "duplicate_audio_consensus.py（80）"], "fns": ["_self_bound_hypothesis_record()", "_strong_vocal_onset_near()", "assert_report_timestamp_equality()"], "io": "用到：讀寫素材 97、共用格式 73、地基 47、句首細修 8；被用到：裁判 14、爭議重聽 10、語音模型 8、裁判後再確認 4、總指揮 3"}, "asr": {"x": 630, "y": 550, "w": 180, "h": 80, "name": "語音模型", "sub": "ASR／對齊", "layer": "找證據", "cnt": "2 模組 · 3,311 行", "plain": "真正去叫語音模型的地方。一個模型負責「聽出唱了什麼」，另外幾個負責「已知歌詞時，每個字在第幾秒」。", "role": "呼叫各模型：whisper.cpp 原始辨識、MMS_FA 全曲 CTC、WhisperX 強制對齊、7 組 CTC 的多模型共識。", "files": ["asr_backends.py（2,797）", "multimodel_consensus.py（514）"], "fns": ["run_whisperx_alignment()", "asr_transcript()", "build_local_whisper_capability()", "hf_model_load_options()"], "io": "用到：地基 121、讀寫素材 62、共用格式 17、聽聲音找起點 8、句首細修 5、段落結構 1；被用到：爭議重聽 26、總指揮 18、裁判 7、評測工具 3、裁判後再確認 3、共用格式 3；另開程式 → 模型小程式"}, "helper": {"x": 870, "y": 550, "w": 170, "h": 80, "name": "模型小程式", "sub": "各自獨立執行", "layer": "找證據", "cnt": "5 模組 · 1,301 行", "ghost": true, "plain": "每個模型自己的小程式，在獨立的環境裡跑，避免不同模型需要的套件互相衝突。", "role": "真正載入模型的腳本，在另一個 Python 行程裡跑（GPU 環境隔離）。後端用檔案路徑啟動它們，不是 import。", "files": ["ctc_align.py（382）", "multimodel_align.py（350）", "persistent_helper_worker.py（264）", "japanese_ctc_align.py（153）", "whisperx_refine.py（152）"], "fns": [], "io": "被 asr_backends、ctc_refinement、ctc_window_realign、ctc_prefix_recovery、central_commit 以子行程啟動（graphify 圖中沒有這些邊）"}, "timing": {"x": 230, "y": 730, "w": 240, "h": 80, "name": "共用格式", "sub": "候選時間與可信度", "layer": "共用", "cnt": "6 模組 · 7,566 行", "core": true, "plain": "大家共用的「表格格式」：一個候選時間長什麼樣、最後的決定怎麼記錄、可信度怎麼算。", "role": "所有層共用的資料型別（候選、決策、最終狀態）、句尾與候選區間證據，以及報告的可信度計算。", "files": ["report_trust.py（2,312）", "timing_core.py（1,847）", "tail_occurrence_evidence.py（1,418）", "candidate_regions.py（1,051）", "timing_evidence_types.py（807）", "arbiter.py（131）"], "fns": ["TimingCandidate", "FinalTimingState", "BackendSelection", "update_report_confidence_metrics()"], "io": "用到：讀寫素材 81、地基 65、語音模型 3、裁判 2；被用到：裁判 227、爭議重聽 189、裁判後再確認 88、聽聲音找起點 73、句首細修 35、總指揮 24"}, "io": {"x": 580, "y": 730, "w": 220, "h": 80, "name": "讀寫素材", "sub": "音訊／歌詞", "layer": "共用", "cnt": "6 模組 · 2,991 行", "plain": "處理素材：解開音檔、把伴奏去掉只留人聲、讀歌詞檔（自動判斷文字編碼）、把日文轉成羅馬拼音、寫出 .lrc。", "role": "解碼音訊、算特徵、Demucs 分人聲軌；讀歌詞（text_encoding.py 判斷檔案編碼，對齊輸入和審核頁共用）、轉羅馬拼音、寫 LRC。", "files": ["lyrics_io.py（1,341）", "audio_features.py（814）", "lrc_reading.py（591）", "text_encoding.py（157）", "numeral_reading.py（50）", "lrc_timestamp_pairs.py（38）"], "fns": ["read_lyric_text()", "LyricEntry", "entry_sung_text()", "normalize_match_text()", "analyze_audio()", "write_lrc()"], "io": "用到：地基 39、存檔 5；被用到：聽聲音找起點 97、共用格式 81、爭議重聽 69、句首細修 64、語音模型 62、裁判後再確認 35"}, "base": {"x": 300, "y": 900, "w": 300, "h": 64, "name": "地基", "sub": "路徑／錯誤／快取", "layer": "地基", "cnt": "6 模組 · 2,630 行", "plain": "檔案路徑、錯誤處理和快取（同一首歌第二次跑，不用重算模型結果）。", "role": "路徑、錯誤型別、內容雜湊、模型快取、GPU 鎖、階段計時。每一層都用到它。", "files": ["runtime_base.py（1,281）", "lrc_stage_timings.py（479）", "model_cache.py（447）", "runtime_paths.py（237）", "split_patch.py（104）", "file_digest.py（82）"], "fns": ["LrcError", "_timing_content_digest()", "canonicalize_lrc_time()", "_path_sha256()"], "io": "被用到：語音模型 121、裁判 80、爭議重聽 71、共用格式 65、聽聲音找起點 47、總指揮 46"}, "tools": {"x": 700, "y": 900, "w": 300, "h": 64, "name": "評測工具", "sub": "不在對齊路徑上", "layer": "地基", "cnt": "13 模組 · 3,591 行", "plain": "不參與對齊的工具：拿人工校對過的歌詞算準確率、檢查環境、預先下載模型。", "role": "離線用：對 BK 評分、報告比對、benchmark、doctor 環境檢查、模型預抓、快取遷移。不在對齊路徑上。", "files": ["run_benchmarks.py（573）", "quantify_alignment.py（458）", "furigana_audit.py（457）", "compare_report_runs.py（404）", "doctor.py（387）", "evaluate_lrc.py（275）", "migrate_model_cache.py（212）", "archive_stale_reports.py（180）", "…另 5 個"], "fns": ["parse_lrc()", "summarize()"], "io": "用到：讀寫素材 15、地基 11、語音模型 3、存檔 1、總指揮 1；被用到：複查員 7、存檔 5"}};
+const BANDS = [{"y": 14, "h": 92, "t": "你按的入口", "s": "不在程式圖裡"}, {"y": 170, "h": 120, "t": "指揮與存檔", "s": "入口／審核"}, {"y": 350, "h": 120, "t": "做決定", "s": "只有這層定時間"}, {"y": 530, "h": 120, "t": "找證據", "s": "模型與聲音"}, {"y": 710, "h": 120, "t": "共用", "s": "格式與讀寫"}, {"y": 884, "h": 96, "t": "地基", "s": "路徑／快取／工具"}];
 const E = [["bat", "entry", null, "hook", 0], ["rbat", "review", null, "hook", 0], ["entry", "rev", 7, "call", 0], ["entry", "out", 17, "call", 0], ["review", "out", 16, "call", 0], ["entry", "post", 8, "call", 0], ["entry", "central", 18, "call", 0], ["post", "central", 69, "call", 0], ["central", "lw", 13, "call", 0], ["lw", "asr", 26, "call", 0], ["lw", "hyp", 10, "call", 0], ["ctc", "seg", 4, "call", 0], ["asr", "helper", null, "http", 0], ["central", "timing", 227, "call", 0], ["hyp", "timing", 73, "call", 0], ["timing", "io", 81, "call", 0], ["timing", "base", 65, "call", 0]];
-const PATH = [{"n": "bat", "t": "把 FLAC 和歌詞拖到 Align LRC.bat，ps1 逐首呼叫 auto_lrc.py"}, {"n": "entry", "t": "<span class=fn>process_audio()</span> 開始，依序跑下面每一步"}, {"n": "io", "t": "讀歌詞、預檢、轉羅馬拼音；Demucs 分出人聲軌"}, {"n": "asr", "t": "whisper.cpp 原始辨識；MMS_FA 全曲 CTC 強制對齊"}, {"n": "seg", "t": "<span class=fn>run_segment_skeleton()</span> 判斷段落骨架是否成立"}, {"n": "ctc", "t": "骨架不成立時做 CTC 局部視窗重對齊"}, {"n": "asr", "t": "WhisperX 強制對齊，當第二個候選"}, {"n": "central", "t": "Central 仲裁：比較候選，依規則選定每句時間"}, {"n": "lw", "t": "寫定前補證據：whisper.cpp 局部重聽（中立仲裁）"}, {"n": "post", "t": "HuBERT 確認句尾與既有候選，只選不造"}, {"n": "asr", "t": "多模型共識：≥3 個模型家族在 0.1 秒內一致才改未定案的句子"}, {"n": "central", "t": "自我檢查 F1–F4：只降可信度，不改時間"}, {"n": "out", "t": "寫出 .lrc、對齊報告、審核清單"}, {"n": "review", "t": "審核頁：人工確認沒把握的句子"}];
+const PATH = [{"n": "bat", "t": "你把歌拖到 Align LRC.bat"}, {"n": "entry", "t": "總指揮開始，照順序跑下面每一步"}, {"n": "io", "t": "讀歌詞、把日文轉成羅馬拼音；把伴奏去掉，只留人聲（Demucs）"}, {"n": "asr", "t": "一個模型聽出唱了什麼（whisper.cpp）；另一個模型把整首歌詞一次對上時間（MMS_FA）"}, {"n": "seg", "t": "看段落結構清不清楚"}, {"n": "ctc", "t": "不清楚的話，逐段細修每一句的開頭"}, {"n": "asr", "t": "再請一個模型獨立對一次，當第二意見（WhisperX）"}, {"n": "central", "t": "裁判比較所有候選，選定每一句的時間"}, {"n": "lw", "t": "有爭議的句子剪一小段重聽，確認唱的是這一句"}, {"n": "post", "t": "用日文語音模型核對句尾（HuBERT），只能在已有答案裡挑"}, {"n": "asr", "t": "七個對齊模型投票：至少三個不同家族在 0.1 秒內一致，才改還沒定案的句子"}, {"n": "central", "t": "最後自我檢查：有疑點就標「請人複查」，不改時間"}, {"n": "out", "t": "存成 .lrc、報告和複查清單"}, {"n": "review", "t": "你在審核頁只聽被標出來的句子"}];
 const GODS = [["LyricEntry", "lyrics_io.py", 279, "每一層都在傳的歌詞行型別；改欄位影響全部"], ["LrcError", "runtime_base.py", 155, "統一的錯誤型別"], ["_timing_content_digest()", "runtime_base.py", 143, "快取與報告的內容雜湊；改了舊快取全部失效"], ["TimingCandidate", "timing_evidence_types.py", 124, "候選時間的型別，Central 與所有證據來源共用"], ["entry_sung_text()", "lyrics_io.py", 116, "取「實際要唱的字」；影響所有比對"], ["process_audio()", "auto_lrc.py", 90, "整條管線的順序"], ["normalize_match_text()", "lyrics_io.py", 75, "文字比對前的正規化"], ["collect_central_timing_candidates()", "local_whisper_retry.py", 70, "Central 看得到哪些候選"], ["run_auto_backend_competition()", "auto_lrc.py", 70, "後端競爭與選擇的主流程"], ["AudioFeatures", "audio_features.py", 61, "音訊特徵型別，聲學假說與自我檢查都用"]];
 const FEATS = [{"t": "EMPTY1：審核頁讀不出 LRC 變空白", "m": "io", "f": "text_encoding.py、review_server.py", "e": "_decode_lrc()、_region_shares()", "d": "自動判斷 UTF-8／UTF-16／GBK／Big5，支援 [mm:ss.xxx] 毫秒標籤；GBK 與 Big5 都能解時依字元區比例選，拿不準就標「編碼不確定」。2026-11-17 起判斷程式搬到 text_encoding.py，對齊輸入也用同一套；編碼不確定的檔案任何存檔路徑都回 409，不會被改寫成亂碼。"}, {"t": "TRAD1：簡體一鍵轉台灣繁體", "m": "review", "f": "zh_traditional.py、review_server.py、index.html", "e": "song_candidates()、POST /api/song/N/convert", "d": "以 OpenCC s2tw 為底（不用 s2twp）：規則表全空時輸出和原版逐字相同，每個不同處都來自一條有正反例的規則（2026-11-17 BUGHUNT2 重寫，見 docs/ZH_S2TW_ROUNDTRIP.md）。有假名的行不轉，日文歌與編碼不確定時預設不勾；[ti:] 等標籤一起轉；轉前留 .pre-s2tw-*.bak。"}, {"t": "和聲候選", "m": "review", "f": "harmony_candidates.py", "e": "load()", "d": "讀 sidecar，在審核頁顯示括號句在和聲軌的起點。只當參考，不會自動改時間（HARM2 證實直接覆蓋會弄壞原本對的句子）。"}, {"t": "split2 第二輪拆檔", "m": "ctc", "f": "ctc_refinement 等 5 個原檔", "e": "—", "d": "5 個超過 4,000 行的模組拆成 16 個新模組，原檔留作對外入口。下方「完整模組圖」看得到拆分後的相依。"}, {"t": "段落級重對齊（預設關閉）", "m": "seg", "f": "segment_realign.py", "e": "plan_segment_realign()", "d": "--segment-realign 預設 off。五輪 replay 沒修到任何一行，所以 1.9 不開。"}, {"t": "lyricsee 歌詞來源", "m": null, "miss": true, "f": "不在公開 repo", "e": "—", "d": "已從公開 repo 移除，只在本機保留，所以不在這張圖裡。"}];
 
@@ -1657,8 +1684,8 @@ const panel = document.getElementById("panel");
 const esc = s => String(s).replace(/[&<>"]/g, c => ({"&":"&amp;","<":"&lt;",">":"&gt;",'"':"&quot;"}[c]));
 function overview() {
   panel.innerHTML = `<div class="layer">說明</div><h2>這張圖怎麼看</h2>
-  <p>上到下是六層：bat 啟動 <b>auto_lrc</b>，它依序呼叫各階段。<b>Central</b> 是唯一決定時間的地方，下面的「證據來源」只提供候選和佐證，再往下是所有層共用的型別與基礎。</p>
-  <p>綠線上的數字是兩層之間的引用邊數，越粗越多。最大的一條是 Central 仲裁 → 時間證據核心（227）。</p>
+  <p>由上往下看。最上面是你會按的兩個入口；「總指揮」照順序叫每一步做事；「裁判」是整個程式唯一決定時間的地方；它下面一排負責找證據；最下面是大家共用的格式和地基。</p>
+  <p>線上的數字是兩塊程式互相呼叫的次數，越粗代表關係越緊。</p>
   <p style="color:var(--muted)">點方塊看細節；再點一次或按「全部顯示」回到這裡。</p>`;
 }
 function pathPanel() {
@@ -1674,12 +1701,14 @@ function select(id) {
   edgeEls.forEach(g=>{ const on = g.dataset.a===id || g.dataset.b===id; g.classList.toggle("dimmed", !on); if(on){linked.add(g.dataset.a);linked.add(g.dataset.b);} });
   Object.entries(nodeEls).forEach(([k,g])=>{ g.classList.toggle("dimmed", !linked.has(k)); g.classList.toggle("sel", k===id); });
   panel.innerHTML = `<div class="layer">${esc(m.layer)}${m.cnt?` · ${esc(m.cnt)}`:""}</div><h2>${esc(m.name)}</h2>
+  <p class="plain">${esc(m.plain||"")}</p>
+  <details class="tech"><summary>技術細節</summary>
   <dl>
     <div><dt>職責</dt><dd>${esc(m.role)}</dd></div>
     ${m.fns.length?`<div><dt>核心函式／型別</dt><dd class="chips">${m.fns.map(f=>`<span class="chip">${esc(f)}</span>`).join("")}</dd></div>`:""}
     ${m.files.length?`<div><dt>檔案（行數）</dt><dd>${m.files.map(f=>`<code>${esc(f)}</code>`).join("<br>")}</dd></div>`:""}
     <div><dt>上下游（邊數）</dt><dd>${esc(m.io)}</dd></div>
-  </dl>`;
+  </dl></details>`;
   if (window.matchMedia("(max-width: 960px)").matches) panel.scrollIntoView({behavior:"smooth",block:"nearest"});
 }
 function clearDim() {

diff --git a/README.md b/README.md
@@ -166,9 +166,9 @@ powershell -ExecutionPolicy Bypass -File .\align-lrc.ps1 "D:\Music\Song.flac"
 
 ![LRC 模組分層圖](docs/architecture/architecture-map.png)
 
-`scripts/` 的模組分成六層。只有「Central 決策」那層決定時間；「證據來源」只提供候選和佐證；審核頁和對齊管線之間只透過報告與 LRC 檔案相連。線上的數字是兩層之間的引用次數，用 [graphify](https://pypi.org/project/graphifyy/) 對程式碼做 AST 分析得到。
+由上往下看：最上面是你會按的兩個入口；「總指揮」照順序叫每一步做事；「裁判」是整個程式唯一決定時間的地方，依固定規則從各模型的答案裡挑一個，沒把握的句子標出來請人聽；它下面一排負責找證據（語音模型、聽聲音找起點、細修句首）；最下面是大家共用的格式和地基。線上的數字是兩塊程式互相呼叫的次數，用 [graphify](https://pypi.org/project/graphifyy/) 分析程式碼得到。
 
-互動版在 [docs/architecture/index.html](docs/architecture/index.html)。GitHub 不會直接執行這個頁面，要下載後用瀏覽器打開。打開後可以點方塊看每層的職責、檔案和上下游，也可以切換「一首歌的主路徑」。
+互動版在 [docs/architecture/index.html](docs/architecture/index.html)。GitHub 不會直接執行這個頁面，要下載後用瀏覽器打開。打開後先有一段白話說明這個工具在做什麼；點任一方塊會先看到它用白話在做什麼，技術細節收在下面；也可以切換「一首歌的主路徑」。
 
 ## 演算流程
 
